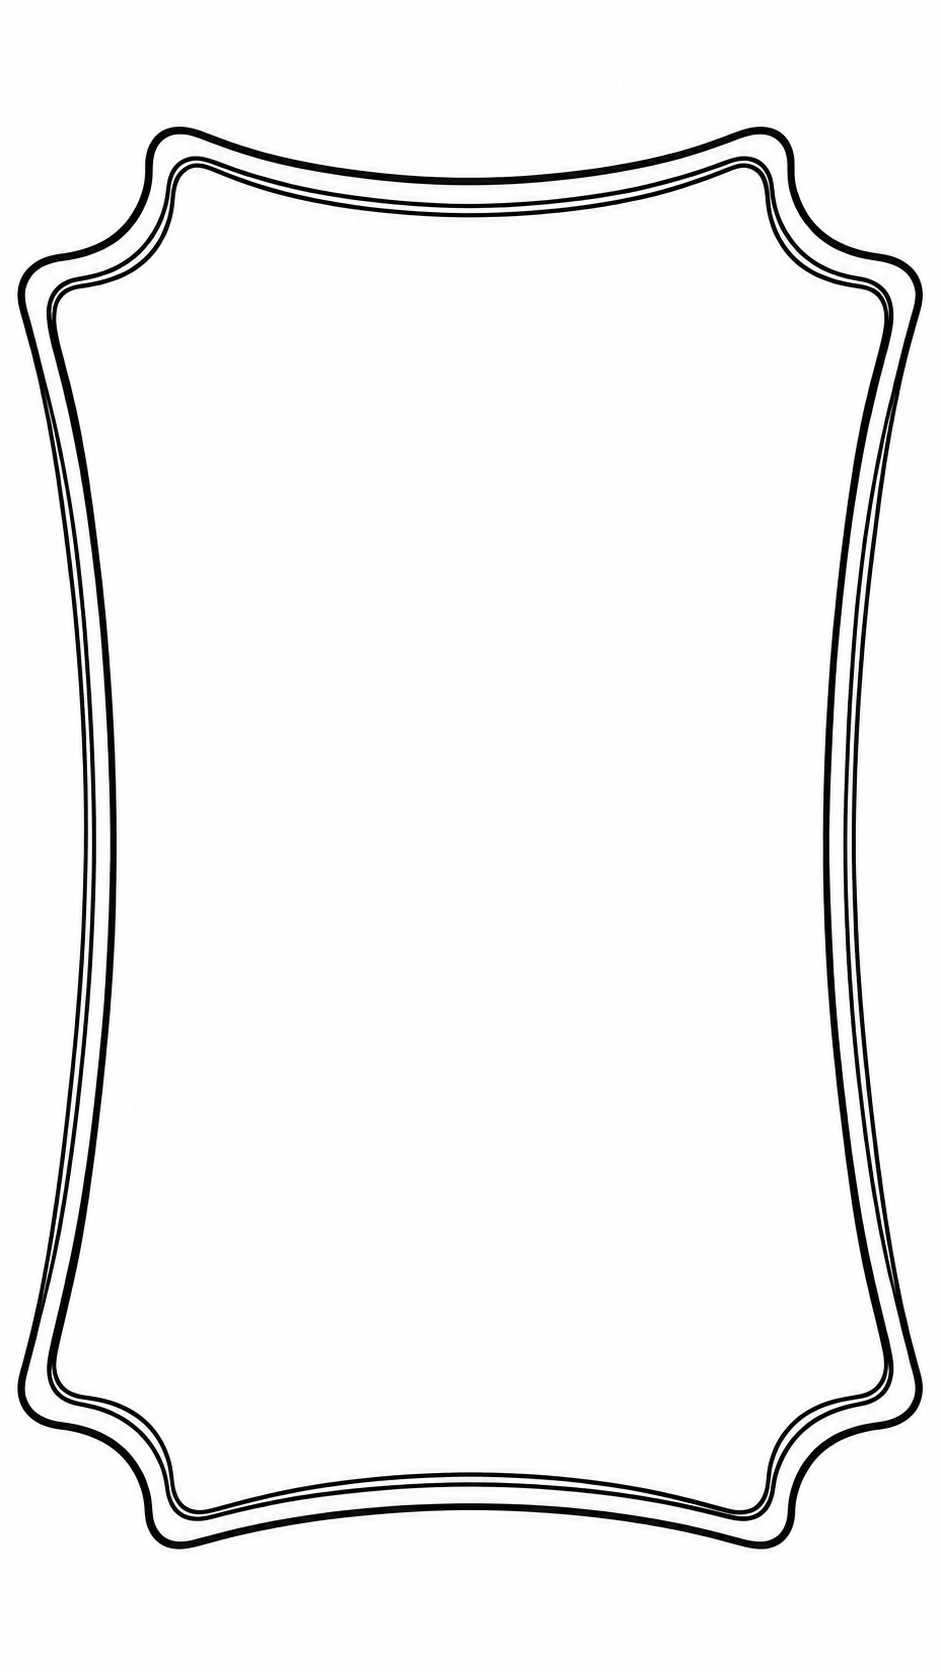
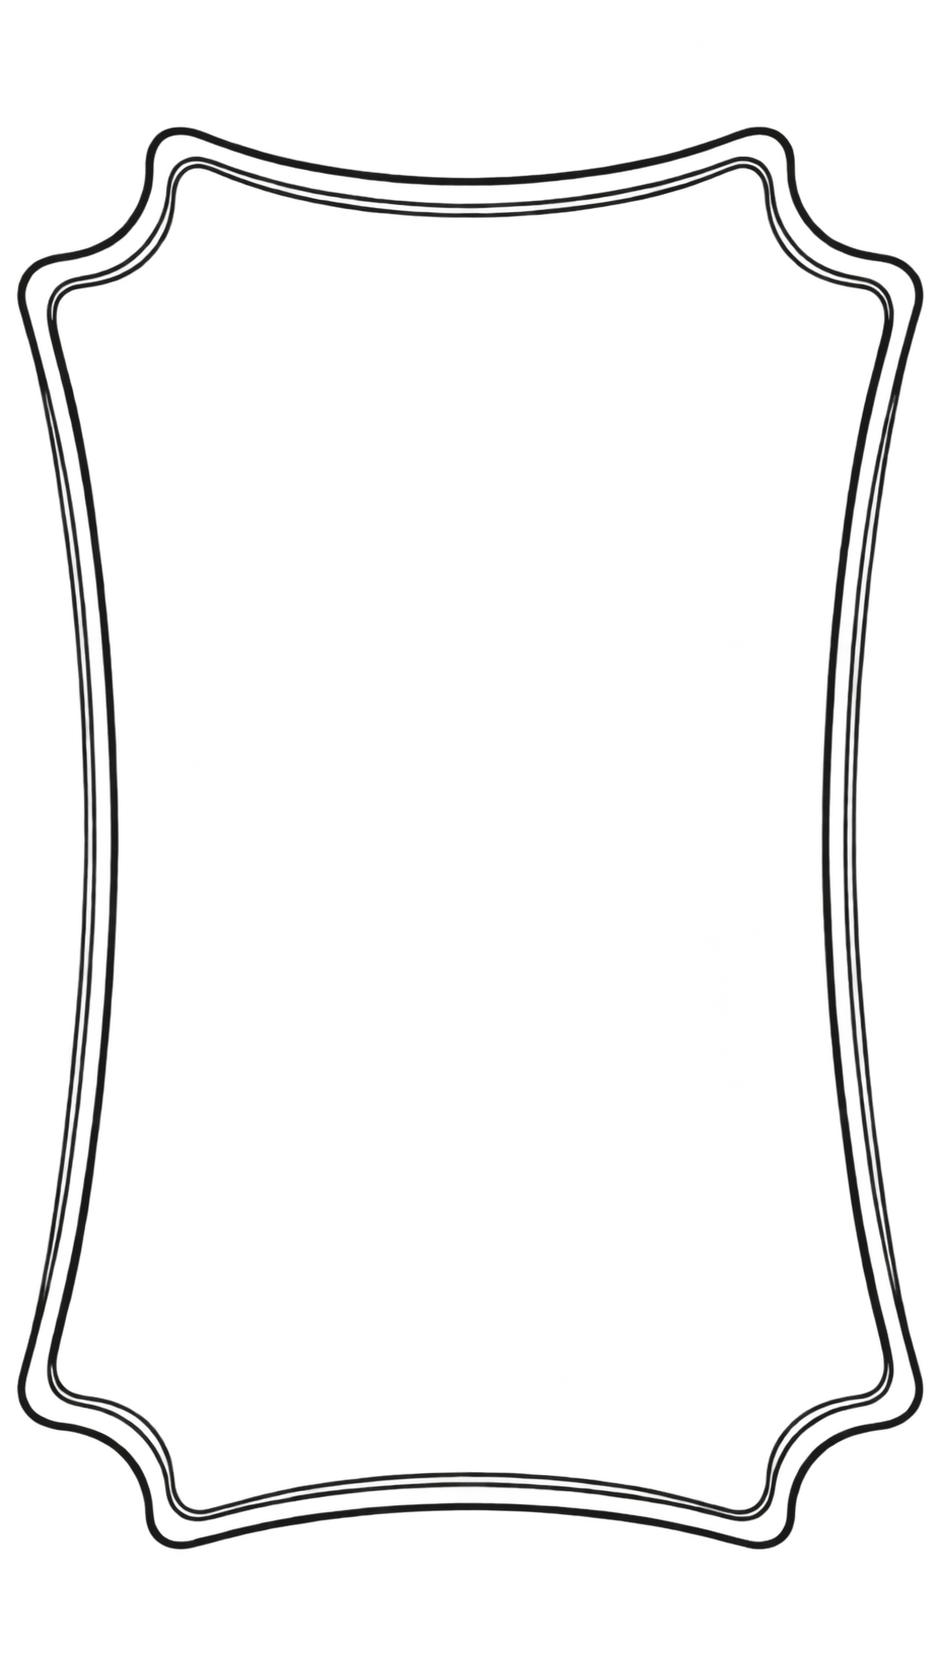
silver assets

Changed region(s): [[0.0, 0.0622, 0.9862, 0.933], [0.2465, 0.8708, 0.7396, 0.9019]]

diff --git a/resources/js/Components/Wedding/HeroSection.vue b/resources/js/Components/Wedding/HeroSection.vue
@@ -177,10 +177,10 @@ const padCountdown = (value) => String(value).padStart(2, '0');
 
                 <div class="iron-gate" aria-hidden="true">
                     <div class="gate-leaf gate-leaf-left">
-                        <img src="/images/hero/ornate-ivory-wrought-iron-gate.png" alt="" draggable="false">
+                        <img src="/images/hero/silvery-metallic-gate-with-swirls.png" alt="" draggable="false">
                     </div>
                     <div class="gate-leaf gate-leaf-right">
-                        <img src="/images/hero/ornate-ivory-wrought-iron-gate.png" alt="" draggable="false">
+                        <img src="/images/hero/silvery-metallic-gate-with-swirls.png" alt="" draggable="false">
                     </div>
                 </div>
 

diff --git a/resources/js/app.js b/resources/js/app.js
@@ -6,10 +6,14 @@ import { resolvePageComponent } from 'laravel-vite-plugin/inertia-helpers';
 import { createApp, h } from 'vue';
 import { ZiggyVue } from '../../vendor/tightenco/ziggy';
 
-const appName = import.meta.env.VITE_APP_NAME || 'Laravel';
+const appTitle = 'Joboy & Mimi — 25th Anniversary Celebration';
 
 createInertiaApp({
-    title: (title) => `${title} - ${appName}`,
+    title: (title) => {
+        if (!title || title.includes('Joboy & Mimi')) return title || appTitle;
+
+        return `${title} — Joboy & Mimi`;
+    },
     resolve: (name) =>
         resolvePageComponent(
             `./Pages/${name}.vue`,

diff --git a/resources/js/Pages/PersonalizedWelcome.vue b/resources/js/Pages/PersonalizedWelcome.vue
@@ -8,6 +8,6 @@ defineProps({
 </script>
 
 <template>
-    <Head :title="`${invitee.name}, You're Invited — 25th Anniversary Celebration`" />
+    <Head :title="`${invitee.name}, You're Invited to Joboy & Mimi’s 25th Anniversary`" />
     <WeddingSite :invitee="invitee" />
 </template>

diff --git a/resources/css/app.css b/resources/css/app.css
@@ -887,7 +887,7 @@
     flex-direction: column;
     justify-content: center;
     padding: clamp(4.5rem, 8vh, 6.5rem) clamp(2.25rem, 7vw, 4rem);
-    background: var(--silver-paper);
+    background: transparent;
 }
 
 .invitation-content > .invitation-frame-art {

diff --git a/resources/js/Pages/Welcome.vue b/resources/js/Pages/Welcome.vue
@@ -11,6 +11,6 @@ defineProps({
 </script>
 
 <template>
-    <Head title="25th Anniversary Celebration" />
+    <Head title="Joboy & Mimi — 25th Anniversary Celebration" />
     <WeddingSite />
 </template>

diff --git a/resources/views/app.blade.php b/resources/views/app.blade.php
@@ -4,10 +4,10 @@
         <meta charset="utf-8">
         <meta name="viewport" content="width=device-width, initial-scale=1">
 
-        <title inertia>{{ config('app.name', 'Laravel') }}</title>
+        <title inertia>Joboy &amp; Mimi — 25th Anniversary Celebration</title>
 
-        <link rel="icon" href="/favicon.svg" type="image/svg+xml">
-        <link rel="apple-touch-icon" href="/apple-touch-icon.svg">
+        <link rel="icon" href="/favicon.png" type="image/png" sizes="512x512">
+        <link rel="apple-touch-icon" href="/favicon.png">
 
         <!-- Fonts -->
         <link rel="preconnect" href="https://fonts.googleapis.com">
